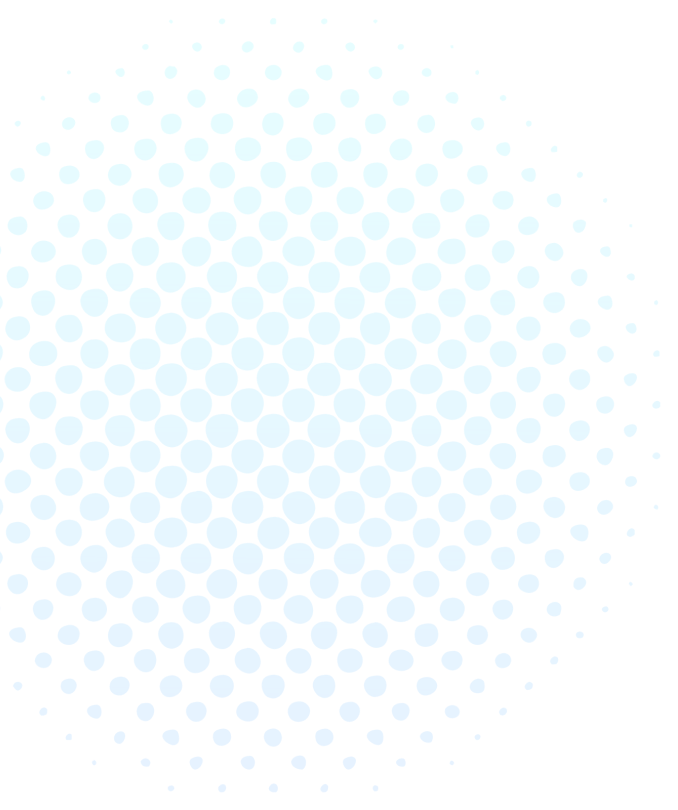
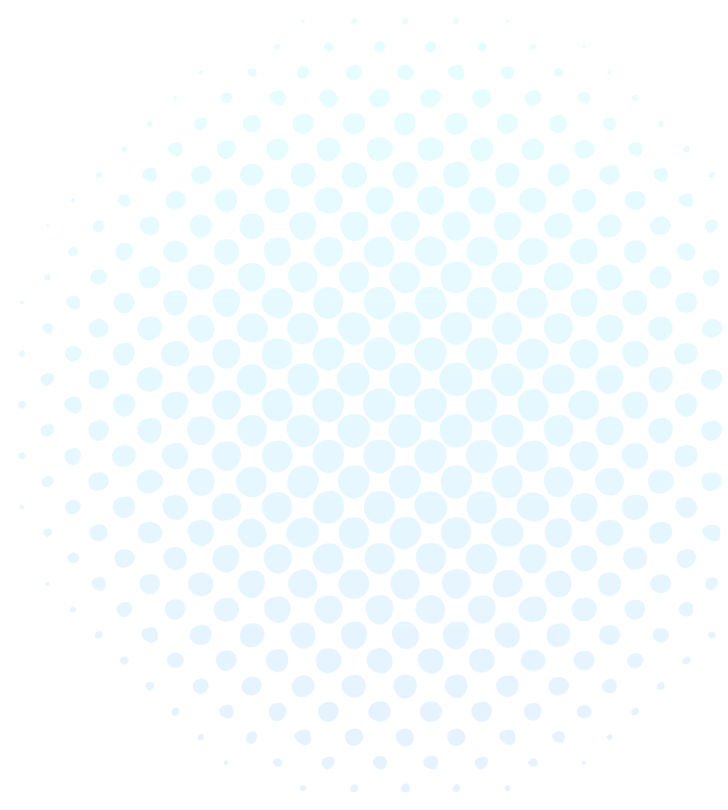
about us and advantages styled

diff --git a/source/index.html b/source/index.html
@@ -77,7 +77,8 @@
       <div class="about-us__container">
         <h2 class="section-title about-us__title">О нас</h2>
         <div class="about-us__txt-container">
-          <p class="about-us__txt">Быстро, качественно и абсолютно безопасно мы сделаем для вас праздник вашей мечты. В
+          <p class="about-us__txt">Быстро, качественно и абсолютно безопасно<br> мы сделаем для вас праздник вашей
+            мечты.<br> В
             короткие сроки мы организуем программу, которая идеально подойдет вашей компании.</p>
           <p class="about-us__txt">Учитываем все пожелания,
             интересы и потребности. Гарантируем полную безопасность и веселье.</p>
@@ -87,26 +88,88 @@
     <section class="advantages">
       <div class="advantages__container">
         <h2 class="section-title advantages__title">Почему именно мы?</h2>
-        <p class="advntages__subtitle">Мы несем полную ответственность за:</p>
+        <p class="advantages__subtitle">Мы несем полную ответственность за:</p>
         <ul class="features">
           <li class="features__item">
+            <div class="features__item-img">
+              <svg width="50" height="61" viewbox="0 0 50 61" fill="none" xmlns="http://www.w3.org/2000/svg">
+                <path
+                  d="M24.5625 2.19265L2.72438 11.0386C2.50974 11.1268 2.3266 11.2743 2.19779 11.4627C2.06898 11.6512 2.00019 11.8722 2 12.0983V30.8844C1.99846 35.4545 3.22271 39.9463 5.55246 43.9185C7.88222 47.8907 11.2373 51.2067 15.2881 53.5407L24.99 59.1386L34.5612 53.5637C38.578 51.2198 41.9016 47.9082 44.2091 43.9504C46.5167 39.9927 47.7298 35.5234 47.7306 30.9766V11.0386C47.7314 10.8033 47.6578 10.5733 47.5198 10.3798C47.3818 10.1862 47.186 10.0383 46.9587 9.9559L25.4294 2.16961C25.1477 2.07101 24.8381 2.07924 24.5625 2.19265V2.19265Z"
+                  stroke="black" stroke-width="3" />
+                <path
+                  d="M25.0855 14.4019L29.408 22.8908C29.4202 22.9133 29.437 22.9331 29.4574 22.9489C29.4779 22.9648 29.5015 22.9764 29.5267 22.983L39.193 24.3421C39.2234 24.3449 39.2523 24.3565 39.276 24.3752C39.2997 24.394 39.3171 24.4192 39.326 24.4476C39.3349 24.476 39.3349 24.5063 39.326 24.5347C39.3172 24.563 39.2998 24.5882 39.2761 24.607L32.2936 31.2069C32.2811 31.2279 32.2745 31.2518 32.2745 31.276C32.2745 31.3003 32.2811 31.3241 32.2936 31.3451L33.9442 40.6748C33.9496 40.7042 33.9465 40.7345 33.9352 40.7623C33.924 40.79 33.9049 40.8142 33.8803 40.8321C33.8557 40.85 33.8264 40.861 33.7958 40.8637C33.7651 40.8664 33.7343 40.8609 33.7067 40.8476L25.0736 36.4362C25.0495 36.4249 25.0232 36.4191 24.9964 36.4191C24.9697 36.4191 24.9433 36.4249 24.9192 36.4362L16.2861 40.8476C16.2585 40.8609 16.2277 40.8664 16.1971 40.8637C16.1664 40.861 16.1372 40.85 16.1125 40.8321C16.0879 40.8142 16.0689 40.79 16.0576 40.7623C16.0463 40.7345 16.0432 40.7042 16.0486 40.6748L17.6992 31.3451C17.709 31.3233 17.7141 31.2998 17.7141 31.276C17.7141 31.2522 17.709 31.2287 17.6992 31.2069L10.7167 24.607C10.6931 24.5882 10.6757 24.563 10.6668 24.5347C10.6579 24.5063 10.6579 24.476 10.6668 24.4476C10.6757 24.4192 10.6931 24.394 10.7168 24.3752C10.7405 24.3565 10.7694 24.3449 10.7999 24.3421L20.4542 22.983C20.482 22.9787 20.5082 22.9681 20.5309 22.9521C20.5536 22.9361 20.5721 22.9151 20.5849 22.8908L24.8955 14.4019C24.9226 14.3814 24.9561 14.3702 24.9905 14.3702C25.0249 14.3702 25.0584 14.3814 25.0855 14.4019V14.4019Z"
+                  stroke="black" stroke-width="3" stroke-linecap="round" />
+              </svg>
+            </div>
             <h3 class="features__title">Ваше здоровье</h3>
             <p class="features__txt">Абсолютная безопасность
               в условиях COVID-19</p>
           </li>
           <li class="features__item">
+            <div class="features__item-img">
+              <svg width="75" height="75" viewbox="0 0 75 75" fill="none" xmlns="http://www.w3.org/2000/svg">
+                <path
+                  d="M33.7383 51.5625L22.7227 40.5468C22.7227 40.5468 37.2188 6.3398 66.5273 8.20309C66.5273 8.20309 70.6055 35.2968 33.7383 51.5625Z"
+                  stroke="black" stroke-width="3" />
+                <path
+                  d="M65.625 19.7109C62.9578 19.2837 60.4955 18.0197 58.5937 16.1016C56.6383 14.1516 55.3607 11.6252 54.9492 8.89453"
+                  stroke="black" stroke-width="3" />
+                <path
+                  d="M49.5938 31.5469C53.1405 31.5469 56.0156 28.6717 56.0156 25.125C56.0156 21.5783 53.1405 18.7031 49.5938 18.7031C46.047 18.7031 43.1719 21.5783 43.1719 25.125C43.1719 28.6717 46.047 31.5469 49.5938 31.5469Z"
+                  stroke="black" stroke-width="3" />
+                <path
+                  d="M35.8711 50.5781L35.1562 56.0625C35.1505 56.1112 35.1576 56.1605 35.1768 56.2057C35.196 56.2508 35.2266 56.2901 35.2657 56.3197C35.3048 56.3493 35.3509 56.3682 35.3996 56.3745C35.4482 56.3808 35.4976 56.3742 35.543 56.3555L44.918 52.2891C45.302 52.1128 45.6396 51.8494 45.904 51.5199C46.1685 51.1903 46.3525 50.8037 46.4414 50.3906L47.8711 43.5586"
+                  stroke="black" stroke-width="3" />
+                <path
+                  d="M23.4375 39.0117L17.9414 39.7148C17.8941 39.7209 17.8461 39.7143 17.8022 39.6957C17.7584 39.6772 17.7202 39.6473 17.6916 39.6092C17.663 39.5711 17.645 39.5261 17.6395 39.4788C17.634 39.4315 17.6411 39.3835 17.6601 39.3398L21.7148 30.0234C21.8902 29.6221 22.1596 29.2689 22.5002 28.9935C22.8408 28.7182 23.2427 28.5288 23.6718 28.4414L30.4922 27.0117"
+                  stroke="black" stroke-width="3" />
+                <path
+                  d="M25.1836 42.9844C17.5078 45.4453 17.1211 57.5977 17.1211 57.5977C17.1211 57.5977 28.9336 57.7266 31.875 49.6758"
+                  stroke="black" stroke-width="3" />
+                <path d="M12.75 61.8984L8.34375 66.3164" stroke="black" stroke-width="3" stroke-linecap="round" />
+                <path d="M12.4219 53.4727L8.68359 57.1992" stroke="black" stroke-width="3" stroke-linecap="round" />
+                <path d="M21.0234 62.2383L17.2969 65.9766" stroke="black" stroke-width="3" stroke-linecap="round" />
+              </svg>
+            </div>
             <h3 class="features__title">Ваши пожелания</h3>
-            <p class="features__txt">Огромные возможности
+            <p class="features__txt">Огромные возможности<br>
               в выборе программы</p>
           </li>
           <li class="features__item">
+            <div class="features__item-img">
+              <svg width="81" height="79" viewbox="0 0 81 79" fill="none" xmlns="http://www.w3.org/2000/svg">
+                <path
+                  d="M51.5742 10.7414C51.5742 4.81859 46.6063 0 40.5 0C34.3937 0 29.4258 4.81859 29.4258 10.7414C29.4258 16.6642 34.3937 21.4828 40.5 21.4828C46.6063 21.4828 51.5742 16.6642 51.5742 10.7414ZM40.5 18.4138C36.1383 18.4138 32.5898 14.972 32.5898 10.7414C32.5898 6.51082 36.1383 3.06897 40.5 3.06897C44.8617 3.06897 48.4102 6.51082 48.4102 10.7414C48.4102 14.972 44.8617 18.4138 40.5 18.4138Z"
+                  fill="black" />
+                <path
+                  d="M18.668 42.9657C21.5683 42.9657 24.6151 42.4711 27.1766 41.6115C27.9002 45.2901 28.6308 49.0602 29.0527 52.614C21.9589 52.8273 17.1328 53.3215 13.5479 54.194C8.33731 55.4621 5.69532 57.7249 5.69532 60.9192C5.69532 64.6588 9.50201 68.9893 15.8782 72.5033C16.6441 72.9254 17.6072 72.6578 18.0352 71.9272C18.4669 71.1904 18.201 70.2537 17.4413 69.8351C11.5129 66.5679 8.85938 63.0029 8.85938 60.9192C8.85938 56.6333 21.4025 55.8519 30.8374 55.6371C33.8933 57.0226 37.1964 57.7171 40.5 57.7171C43.8036 57.7171 47.1067 57.0226 50.1626 55.6371C59.5975 55.8519 72.1406 56.6333 72.1406 60.9192C72.1406 66.0684 61.2928 71.3371 56.1075 73.029C55.6533 70.9513 54.4804 69.0846 52.7338 67.7352C52.2301 67.346 51.6924 67.012 51.1312 66.7282C53.7628 65.6866 56.3061 64.7555 59.4844 64.7555C60.3581 64.7555 61.0664 64.0685 61.0664 63.221C61.0664 62.3735 60.3581 61.6865 59.4844 61.6865C55.4659 61.6865 52.3777 62.915 49.3913 64.103C47.5952 64.8175 45.8987 65.4923 44.0221 65.9025C44.0148 65.9041 44.0075 65.9057 44.0002 65.9074C43.0839 66.1203 41.755 66.29 40.5 66.29C37.1051 66.29 34.4351 65.2276 31.6082 64.103C28.622 62.915 25.5341 61.6865 21.5156 61.6865C20.6419 61.6865 19.9336 62.3735 19.9336 63.221C19.9336 64.0685 20.6419 64.7555 21.5156 64.7555C24.9105 64.7555 27.5805 65.8178 30.4074 66.9424C33.3937 68.1304 36.4815 69.359 40.5 69.359C42.0536 69.359 43.6508 69.1464 44.8025 68.8782C46.9403 68.4025 49.1124 68.8609 50.7625 70.1357C52.0148 71.1034 52.8106 72.4184 53.0662 73.9116C48.9667 74.9628 44.746 75.4969 40.5 75.4969C37.0842 75.4969 33.6482 75.1469 30.2874 74.4565C29.4323 74.2808 28.593 74.8109 28.4119 75.6398C28.2309 76.4689 28.7772 77.2834 29.6318 77.4589C33.2078 78.1935 36.8643 78.5659 40.5 78.5659C59.5083 78.5659 75.3047 68.399 75.3047 60.9192C75.3047 53.3347 60.2956 52.8649 51.9476 52.614C52.3698 49.0608 53.0994 45.293 53.8224 41.6163C56.3855 42.4822 59.3888 42.9657 62.332 42.9657C70.7712 42.9657 80.5493 38.3771 80.9976 30.4671C81.0277 29.9362 80.7723 29.4279 80.3224 29.1239C79.8726 28.82 79.2928 28.7633 78.7896 28.9746C76.2311 30.0486 72.7402 30.6897 69.4512 30.6897C60.3918 30.6897 55.6959 26.1977 55.1735 25.9779C50.977 23.0672 45.881 21.4828 40.6123 21.4828H40.3877C38.7367 21.4828 37.0801 21.6399 35.4641 21.9493C31.0467 22.7457 26.0733 25.4884 25.2706 26.3726C21.2195 29.3463 16.5583 30.6897 11.5488 30.6897C8.2598 30.6897 4.76889 30.0486 2.21043 28.9746C1.70734 28.7635 1.12737 28.82 0.677597 29.1239C0.227826 29.4279 -0.0276721 29.9362 0.00238653 30.4671C0.452 38.4 10.2661 42.9657 18.668 42.9657V42.9657ZM32.2679 52.8975C31.39 44.8626 28.9509 36.0743 28.1214 28.1675C29.9623 26.9608 32.016 26.0267 34.1719 25.4139V27.6208C34.1719 31.0052 37.0107 33.7587 40.5 33.7587C43.9893 33.7587 46.8281 31.0052 46.8281 27.6208V25.4137C48.9825 26.0263 51.0358 26.96 52.8788 28.1678C52.061 36.0023 49.6127 44.8503 48.7321 52.8974C43.5187 55.2298 37.4815 55.23 32.2679 52.8975V52.8975ZM69.4512 33.7587C72.0473 33.7587 74.772 33.3966 77.1808 32.7547C75.2101 36.8134 69.1253 39.8967 62.332 39.8967C59.5968 39.8967 56.7261 39.4049 54.42 38.5608C54.9664 35.7309 55.4708 32.9471 55.8237 30.2113C59.5201 32.4535 64.4621 33.7587 69.4512 33.7587ZM40.6123 24.5518C41.6319 24.5518 42.6538 24.6216 43.6641 24.7569V27.6208C43.6641 29.313 42.2447 30.6897 40.5 30.6897C38.7553 30.6897 37.3359 29.313 37.3359 27.6208V24.7569C38.3462 24.6216 39.3679 24.5518 40.3877 24.5518H40.6123ZM11.5488 33.7587C16.5387 33.7587 21.4813 32.453 25.1777 30.2107C25.536 32.9774 26.0496 35.8111 26.5797 38.5592C24.2736 39.4046 21.4082 39.8967 18.668 39.8967C11.8747 39.8967 5.78993 36.8134 3.81919 32.7547C6.22799 33.3966 8.95272 33.7587 11.5488 33.7587Z"
+                  fill="black" />
+                <path
+                  d="M23.0977 75.651C23.9714 75.651 24.6797 74.9639 24.6797 74.1162C24.6797 73.2686 23.9714 72.5814 23.0977 72.5814C22.2239 72.5814 21.5156 73.2686 21.5156 74.1162C21.5156 74.9639 22.2239 75.651 23.0977 75.651Z"
+                  fill="black" />
+              </svg>
+            </div>
             <h3 class="features__title">Вашу свободу</h3>
             <p class="features__txt">Помещение и количество людей не имеют значения</p>
           </li>
           <li class="features__item">
+            <div class="features__item-img">
+              <svg width="76" height="74" viewbox="0 0 76 74" fill="none" xmlns="http://www.w3.org/2000/svg">
+                <path
+                  d="M37.7793 61.1805C51.3491 61.1805 62.3496 50.5106 62.3496 37.3486C62.3496 24.1865 51.3491 13.5166 37.7793 13.5166C24.2095 13.5166 13.209 24.1865 13.209 37.3486C13.209 50.5106 24.2095 61.1805 37.7793 61.1805Z"
+                  stroke="black" stroke-width="3" />
+                <path
+                  d="M37.7791 51.1067C45.6129 51.1067 51.9635 44.947 51.9635 37.3486C51.9635 29.7503 45.6129 23.5906 37.7791 23.5906C29.9453 23.5906 23.5947 29.7503 23.5947 37.3486C23.5947 44.947 29.9453 51.1067 37.7791 51.1067Z"
+                  stroke="black" stroke-width="3" />
+                <path d="M37.7793 2V30.3407" stroke="black" stroke-width="3" stroke-linecap="round" />
+                <path d="M37.7793 43.7897V72.1304" stroke="black" stroke-width="3" stroke-linecap="round" />
+                <path d="M44.4199 37.3486H73.6387" stroke="black" stroke-width="3" stroke-linecap="round" />
+                <path d="M2 37.3486H31.0594" stroke="black" stroke-width="3" stroke-linecap="round" />
+              </svg>
+            </div>
             <h3 class="features__title">Свои принципы:</h3>
             <p class="features__txt">Оперативность, четкость,
-              Качество, и доступность</p>
+              качество, и доступность</p>
           </li>
         </ul>
       </div>

diff --git a/source/scss/blocks/_about-us.scss b/source/scss/blocks/_about-us.scss
@@ -1,0 +1,63 @@
+.about-us {
+  display: flex;
+  margin-bottom: 115px;
+  position: relative;
+  overflow-x: hidden;
+
+  &::before {
+    content: '';
+    background-repeat: no-repeat;
+    position: absolute;
+    width: 405px;
+    height: 405px;
+    background-size: contain;
+    background-image: url('../img/audience-bg@1x.png');
+
+    @media (min-resolution: 1.5dppx) {
+      background-image: url('../img/audience-bg@2x.png');
+    }
+
+    right: -66px;
+    top: -7px;
+
+  }
+
+  &__container {
+    display: flex;
+    flex-direction: column;
+    max-width: 1181px;
+    width: 100%;
+    margin: 0 auto;
+    padding-left: 20px;
+    padding-right: 20px;
+    padding-bottom: 60px;
+  }
+
+  &__title {
+    margin-bottom: 104px;
+  }
+
+  &__txt-container {
+    margin-left: auto;
+    display: flex;
+    flex-direction: column;
+    width: 58.5%;
+    background-color: $light-blue;
+    box-shadow: 0px 4px 34px rgba(0, 0, 0, 0.25);
+    border-radius: 16px;
+    font-size: 22px;
+    line-height: 26px;
+    color: $white;
+    // padding-top: 46px;
+    // padding-right: 20px;
+    // padding-left: 28px;
+    // padding-bottom: 44px;
+    padding: 46px 20px 44px 28px;
+  }
+
+  &__txt {
+    &:first-child {
+      margin-bottom: 26px;
+    }
+  }
+}

diff --git a/source/scss/blocks/_features.scss b/source/scss/blocks/_features.scss
@@ -1,0 +1,57 @@
+.features {
+  display: flex;
+  margin-bottom: 99px;
+
+  &__item {
+    &:not(:last-child) {
+      margin-right: 35px;
+    }
+
+    position: relative;
+    display: flex;
+    flex-direction: column;
+    align-items: center;
+    max-width: 280px;
+    width: 100%;
+    flex-wrap: wrap;
+
+    &::after {
+      content: '';
+      width: 100%;
+      height: 2px;
+      position: absolute;
+      background-color: $white;
+      bottom: -16px;
+    }
+
+    svg {
+      text-align: center;
+
+    }
+  }
+
+  &__item-img {
+    display: flex;
+    justify-content: center;
+    align-items: center;
+    background-color: $lemon;
+    width: 134px;
+    height: 134px;
+    box-shadow: 0px 4px 34px rgba(0, 0, 0, 0.25);
+    border-radius: 50%;
+    margin-bottom: 21px;
+  }
+
+  &__title {
+    font-weight: 600;
+    font-size: 20px;
+    line-height: 24px;
+    margin-bottom: 10px;
+  }
+
+  &__txt {
+    font-size: 20px;
+    line-height: 24px;
+    text-align: center;
+  }
+}

diff --git a/source/scss/blocks/_advantages.scss b/source/scss/blocks/_advantages.scss
@@ -1,0 +1,30 @@
+.advantages {
+  display: flex;
+  background: linear-gradient(112.25deg, #005BFF 29.47%, #36A6E8 104.07%);
+  box-shadow: 0px 0px 20px rgba(0, 0, 0, 0.6);
+  border-radius: 160px 0px;
+  color: $white;
+
+  &__container {
+    display: flex;
+    flex-direction: column;
+    max-width: 1285px;
+    width: 100%;
+    margin: 0 auto;
+    padding-left: 30px;
+    padding-right: 30px;
+    padding-top: 76px;
+  }
+
+  &__title {
+    font-size: 30px;
+    line-height: 35px;
+    margin-bottom: 12px;
+  }
+
+  &__subtitle {
+    font-size: 22px;
+    text-align: center;
+    margin-bottom: 85px;
+  }
+}

diff --git a/source/scss/blocks/_top.scss b/source/scss/blocks/_top.scss
@@ -5,6 +5,22 @@
   border-radius: 0px 0px 0px 160px;
   padding-top: 178px;
   width: 100%;
+  margin-bottom: 98px;
+  position: relative;
+
+  &::before {
+    content: '';
+    background-repeat: no-repeat;
+    position: absolute;
+    width: 405px;
+    height: 405px;
+    background-size: contain;
+    background-image: url('../img/top-dot-bg@1x.png');
+
+    @media (min-resolution: 1.5dppx) {
+      background-image: url('../img/top-dot-@2x.png');
+    }
+  }
 
   &__container {
     display: flex;

diff --git a/source/scss/includes/_globals.scss b/source/scss/includes/_globals.scss
@@ -46,3 +46,10 @@ p {
   height: 1px;
   margin: -1px;
 }
+
+.section-title {
+  font-weight: 600;
+  font-size: 35px;
+  line-height: 41px;
+  text-align: center;
+}

diff --git a/source/scss/style.scss b/source/scss/style.scss
@@ -14,5 +14,8 @@
 
 //главная
 @import "blocks/top";
+@import "blocks/about-us";
+@import "blocks/advantages";
+@import "blocks/features";
 
 //Футер

diff --git a/source/scss/blocks/_main-header.scss b/source/scss/blocks/_main-header.scss
@@ -6,6 +6,7 @@
   top: 0;
   left: 0;
   right: 0;
+  z-index: 10;
 
   &__container {
     display: flex;
